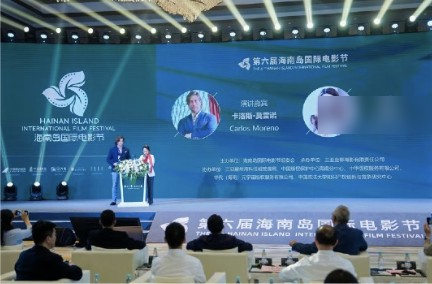
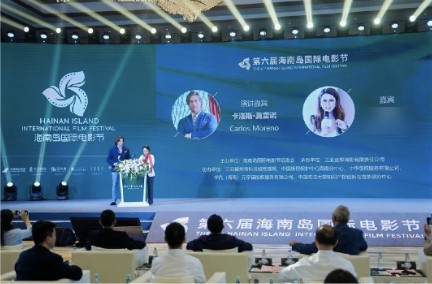
Founder photos: keep portrait on Hainan screen, correct SIFF 2019 and CCTV-6 captions

Changed region(s): [[0.7222, 0.338, 0.8426, 0.4789], [0.8727, 0.338, 0.9329, 0.3944]]

diff --git a/index.html b/index.html
@@ -1022,7 +1022,7 @@ function vMechasia(){
 
 /* ---------- about ---------- */
 function founder(){
-  const ev=[["ev-hainan",i("Hainan Island International Film Festival","Festival Internacional de Cine de la Isla de Hainan","海南岛国际电影节")],["ev-shanghai",i("“Focus on Spain” forum, Shanghai","Foro «Foco en España», Shanghái","“聚焦西班牙”论坛 · 上海")],["ev-silkroad",i("Silk Road Industry Alliance roundtable","Mesa redonda de la Alianza Industrial de la Ruta de la Seda","丝路产业联盟圆桌会议")],["ev-tv",i("Live television panel","Tertulia en directo para televisión","电视直播访谈")]];
+  const ev=[["ev-hainan",i("Hainan Island International Film Festival","Festival Internacional de Cine de la Isla de Hainan","海南岛国际电影节")],["ev-shanghai",i("“Focus on Spain”, Shanghai International Film Festival market, 2019: organised by Moran S., 200+ attendees","«Foco en España», mercado del Festival Internacional de Cine de Shanghái, 2019: organizado por Moran S., más de 200 asistentes","“聚焦西班牙”大会 · 2019上海国际电影节电影市场 · Moran S. 组织，200余人参加")],["ev-silkroad",i("Silk Road Industry Alliance roundtable","Mesa redonda de la Alianza Industrial de la Ruta de la Seda","丝路产业联盟圆桌会议")],["ev-tv",i("Special guest on CCTV-6 China Movie Channel, 2021","Invitada especial en CCTV-6, Canal de Cine de China, 2021","CCTV-6 电影频道节目特约嘉宾 · 2021")]];
   return `<section class="sec tint" id="founder"><div class="wrap founder">
     <div><div class="eyebrow">${i("Founder","Fundadora","创始人")}</div>
      <h2 style="margin-top:12px">Moran S.</h2>

diff --git a/src/app.js b/src/app.js
@@ -396,7 +396,7 @@ function vMechasia(){
 
 /* ---------- about ---------- */
 function founder(){
-  const ev=[["ev-hainan",i("Hainan Island International Film Festival","Festival Internacional de Cine de la Isla de Hainan","海南岛国际电影节")],["ev-shanghai",i("“Focus on Spain” forum, Shanghai","Foro «Foco en España», Shanghái","“聚焦西班牙”论坛 · 上海")],["ev-silkroad",i("Silk Road Industry Alliance roundtable","Mesa redonda de la Alianza Industrial de la Ruta de la Seda","丝路产业联盟圆桌会议")],["ev-tv",i("Live television panel","Tertulia en directo para televisión","电视直播访谈")]];
+  const ev=[["ev-hainan",i("Hainan Island International Film Festival","Festival Internacional de Cine de la Isla de Hainan","海南岛国际电影节")],["ev-shanghai",i("“Focus on Spain”, Shanghai International Film Festival market, 2019: organised by Moran S., 200+ attendees","«Foco en España», mercado del Festival Internacional de Cine de Shanghái, 2019: organizado por Moran S., más de 200 asistentes","“聚焦西班牙”大会 · 2019上海国际电影节电影市场 · Moran S. 组织，200余人参加")],["ev-silkroad",i("Silk Road Industry Alliance roundtable","Mesa redonda de la Alianza Industrial de la Ruta de la Seda","丝路产业联盟圆桌会议")],["ev-tv",i("Special guest on CCTV-6 China Movie Channel, 2021","Invitada especial en CCTV-6, Canal de Cine de China, 2021","CCTV-6 电影频道节目特约嘉宾 · 2021")]];
   return `<section class="sec tint" id="founder"><div class="wrap founder">
     <div><div class="eyebrow">${i("Founder","Fundadora","创始人")}</div>
      <h2 style="margin-top:12px">Moran S.</h2>
